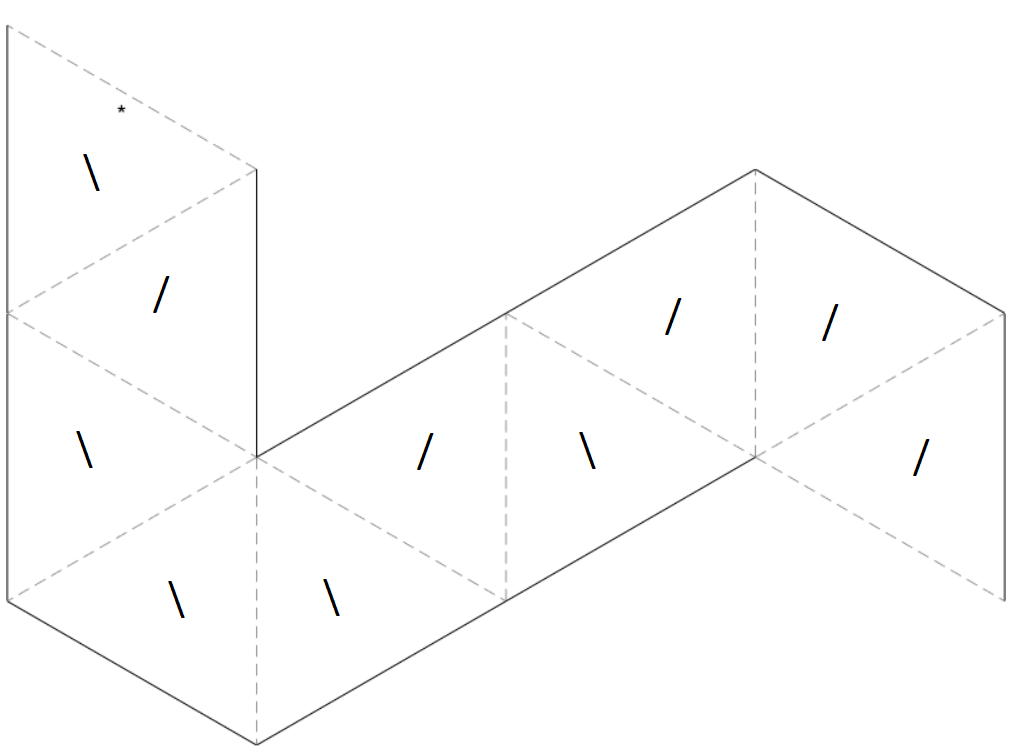
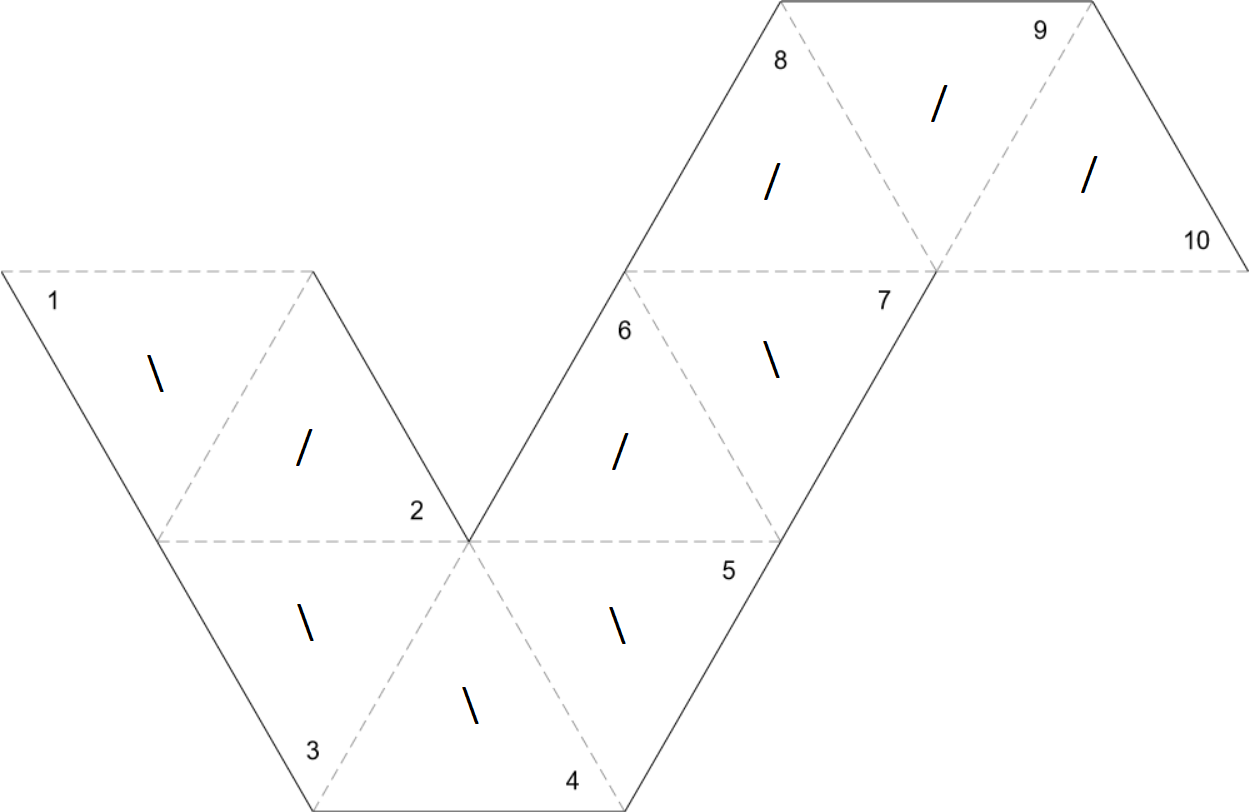
add leaf ids to the shuffle template

diff --git a/book/pics-book.html b/book/pics-book.html
@@ -740,6 +740,9 @@
   <canvas id="atomic-non-iso5" width="200" height="250"></canvas><br/>
   <p>pentagonal silver decaflexagon</p>
   <img src="images/pentagonal-silver-deca-directions.png"/>
+  <p>pyramid shuffle with directions</p>
+  <canvas id="atomic-shuffle-directions" width="1000" height="650"></canvas><br/>
+  <img src="images/shuffle-directions.png"/>
   <script>
     drawFromName("atomic-iso1", "pentaflexagon", 18);
     drawFromName("atomic-iso2", "hexaflexagon", 0);
@@ -751,9 +754,10 @@
     drawFromName("atomic-non-iso3", "octagonal ring dodecaflexagon", 0);
     drawFromName("atomic-non-iso4", "hexagonal ring dodecaflexagon", 0);
     drawFromName("atomic-non-iso5", "octagonal ring tetradecaflexagon", 0);
+    const theScript = [{ pats: [[-2, 1], -3, -4, -5, [[[-8, 7], 9], -6], 10] }];
+    const theOptions = { rotation: 120, content: { showIds: true } };
+    drawStripComplex("atomic-shuffle-directions", theScript, theOptions);
   </script>
-  <p>pyramid shuffle with directions</p>
-  <img src="images/shuffle-directions.png"/>
 
   <!-- groups-->
   <h3 id="groups">groups</h3>
